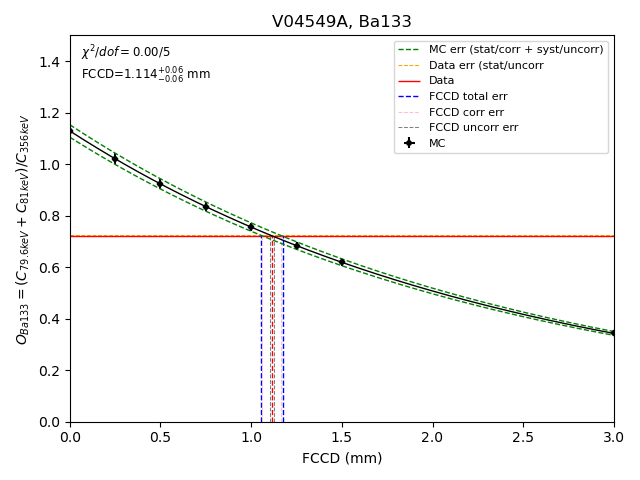
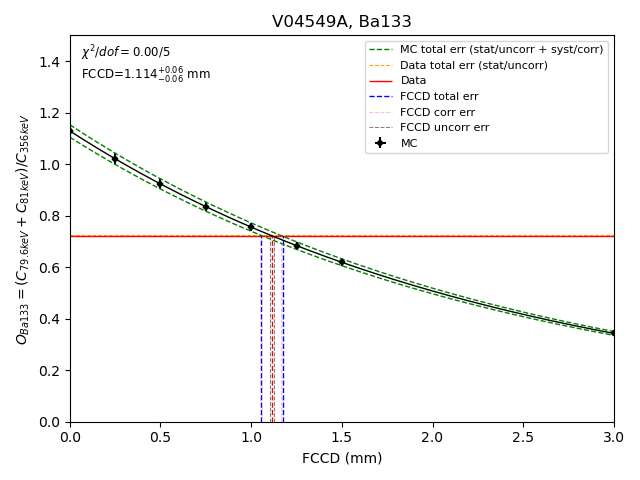
slightly modified FCCD plot

Changed region(s): [[0.5625, 0.0938, 0.9375, 0.3125]]

diff --git a/src/FCCD.py b/src/FCCD.py
@@ -76,7 +76,7 @@ def scipy_LS_fit(x,y,fit_func,guess,bounds=None, yerr=None):
     return coeff, coeff_err
 
     
-def calculateFCCD(detector, source, MC_id, smear, TL_model, frac_FCCDbore, energy_filter, cuts, run):
+def calculateFCCD(detector, source, MC_id, smear, TL_model, frac_FCCDbore, energy_filter, cuts, run, plot_all_error_bands = False):
     """
     Calculate FCCD of data
     args: 
@@ -89,6 +89,7 @@ def calculateFCCD(detector, source, MC_id, smear, TL_model, frac_FCCDbore, energ
         - energy_filter (cuspE_ctc)
         - cuts (True/False)
         - run (1,2,etc)
+        - plot_all_error_bands = True if you want a plot highlighting all the decomposed errors and how they propagate
     """
 
     #initialise directories for detectors to save 
@@ -195,7 +196,7 @@ def calculateFCCD(detector, source, MC_id, smear, TL_model, frac_FCCDbore, energ
     p_guess_up = [max(y_uplim), 1, min(y_uplim)]
     coeff_up, coeff_up_err = scipy_LS_fit(xdata,y_uplim,exponential_decay,p_guess_up)
     yfit_up = exponential_decay(xfit,*coeff_up)
-    plt.plot(xfit, yfit_up, color=plot_colors["MC_err_total"], linestyle='dashed', linewidth=linewidth_main, label="MC err (stat/corr + syst/uncorr)")
+    plt.plot(xfit, yfit_up, color=plot_colors["MC_err_total"], linestyle='dashed', linewidth=linewidth_main, label="MC total err (stat/uncorr + syst/corr)")
     y_lowlim = ydata-yerr
     p_guess_low = [max(y_lowlim), 1, min(y_lowlim)]
     coeff_low, coeff_low_err = scipy_LS_fit(xdata,y_lowlim,exponential_decay,p_guess_low)
@@ -210,11 +211,14 @@ def calculateFCCD(detector, source, MC_id, smear, TL_model, frac_FCCDbore, energ
     y_uplim_corr = ydata+yerr_corr
     coeff_up_corr, coeff_up_corr_err = scipy_LS_fit(xdata,y_uplim_corr,exponential_decay,p_guess_up)
     yfit_up_corr = exponential_decay(xfit,*coeff_up_corr)
-    # plt.plot(xfit, yfit_up_corr, color=plot_colors["MC_err_corr"], linestyle='dashed', linewidth=1, label="MC stat")
+    if plot_all_error_bands == True:
+        plt.plot(xfit, yfit_up_corr, color=plot_colors["FCCD_err_MCsyst"], linestyle='dashed', linewidth=1, label="MC stat/uncorr err")
+    
     y_lowlim_corr = ydata-yerr_corr
     coeff_low_corr, coeff_low_corr_err = scipy_LS_fit(xdata,y_lowlim_corr,exponential_decay,p_guess_low)
     yfit_low_corr = exponential_decay(xfit,*coeff_low_corr)
-    # plt.plot(xfit, yfit_low_corr, color=plot_colors["MC_err_corr"],linestyle='dashed', linewidth=1)
+    if plot_all_error_bands == True:
+        plt.plot(xfit, yfit_low_corr, color=plot_colors["FCCD_err_MCsyst"],linestyle='dashed', linewidth=1)
     a_up_corr, b_up_corr, c_up_corr = coeff_up_corr[0], coeff_up_corr[1], coeff_up_corr[2]
     a_low_corr, b_low_corr, c_low_corr = coeff_low_corr[0], coeff_low_corr[1], coeff_low_corr[2] 
 
@@ -224,11 +228,13 @@ def calculateFCCD(detector, source, MC_id, smear, TL_model, frac_FCCDbore, energ
     y_uplim_uncorr = ydata+yerr_uncorr
     coeff_up_uncorr, coeff_up_uncorr_err = scipy_LS_fit(xdata,y_uplim_uncorr,exponential_decay,p_guess_up)
     yfit_up_uncorr = exponential_decay(xfit,*coeff_up_uncorr)
-    # plt.plot(xfit, yfit_up_uncorr, color=plot_colors["MC_err_uncorr"], linestyle='dashed', linewidth=1, label="MC uncorr")
+    if plot_all_error_bands == True:
+        plt.plot(xfit, yfit_up_uncorr, color=plot_colors["FCCD_err_statMCstatdata"], linestyle='dashed', linewidth=1, label="MC syst/uncorr err")
     y_lowlim_uncorr = ydata-yerr_uncorr
     coeff_low_uncorr, coeff_low_uncorr_err = scipy_LS_fit(xdata,y_lowlim_uncorr,exponential_decay,p_guess_low)
     yfit_low_uncorr = exponential_decay(xfit,*coeff_low_uncorr)
-    # plt.plot(xfit, yfit_low_uncorr, color=plot_colors["MC_err_uncorr"],linestyle='dashed', linewidth=1)
+    if plot_all_error_bands == True:
+        plt.plot(xfit, yfit_low_uncorr, color=plot_colors["FCCD_err_statMCstatdata"],linestyle='dashed', linewidth=1)
     a_up_uncorr, b_up_uncorr, c_up_uncorr = coeff_up_uncorr[0], coeff_up_uncorr[1], coeff_up_uncorr[2]
     a_low_uncorr, b_low_uncorr, c_low_uncorr = coeff_low_uncorr[0], coeff_low_uncorr[1], coeff_low_uncorr[2] 
 
@@ -268,15 +274,12 @@ def calculateFCCD(detector, source, MC_id, smear, TL_model, frac_FCCDbore, energ
 
     #=============Complete Plot===================
 
-    #TO DO
-    # props = dict(boxstyle='round', alpha=0.5)
     info_str = '\n'.join((r'$\chi^2/dof=%.2f/%.0f$'%(chi_sq, dof), r'FCCD=$%.3f^{+%.2f}_{-%.2f}$ mm' % (FCCD_data, FCCD_err_total_up, FCCD_err_total_low)))
     plt.text(0.02, 0.98, info_str, transform=ax.transAxes, fontsize=8.5,verticalalignment='top')
 
 
-
     #plot horizontal data line and errors
-    plt.hlines(countRatio_data+countRatio_data_err, 0, FCCD_list[-1], color=plot_colors["data_err_stat"], label = 'Data err (stat/uncorr', linewidth=linewidth_err, linestyle = 'dashed')
+    plt.hlines(countRatio_data+countRatio_data_err, 0, FCCD_list[-1], color=plot_colors["data_err_stat"], label = 'Data total err (stat/uncorr)', linewidth=linewidth_err, linestyle = 'dashed')
     plt.hlines(countRatio_data-countRatio_data_err, 0, FCCD_list[-1], color=plot_colors["data_err_stat"], linewidth=linewidth_err, linestyle = 'dashed')
     plt.hlines(countRatio_data, 0, FCCD_list[-1], color=plot_colors["data"], label = 'Data', linewidth=linewidth_main)
     
@@ -293,7 +296,7 @@ def calculateFCCD(detector, source, MC_id, smear, TL_model, frac_FCCDbore, energ
 
     # #plot stat MC + stat data/ total uncorr:
     plt.vlines(FCCD_data+FCCD_err_uncorr_up, 0, countRatio_data-countRatio_data_err, color=plot_colors["FCCD_err_statMCstatdata"], linestyles='dashed', linewidths=linewidth_err, label = "FCCD uncorr err")
-    plt.vlines(FCCD_data-FCCD_err_uncorr_low, 0, countRatio_data-countRatio_data_err, color=plot_colors["FCCD_err_statMCstatdata"], linestyles='dashed', linewidths=linewidth_err)
+    plt.vlines(FCCD_data-FCCD_err_uncorr_low, 0, countRatio_data+countRatio_data_err, color=plot_colors["FCCD_err_statMCstatdata"], linestyles='dashed', linewidths=linewidth_err)
 
     if source == "Ba133":
         plt.ylabel(r'$O_{Ba133} = (C_{79.6keV}+C_{81keV})/C_{356keV}$')
@@ -309,7 +312,7 @@ def calculateFCCD(detector, source, MC_id, smear, TL_model, frac_FCCDbore, energ
     else:
         plt.savefig(outputFolder+"FCCD_"+MC_id+"_"+smear+"_"+TL_model+"_fracFCCDbore"+str(frac_FCCDbore)+"_"+energy_filter+"_run"+str(run)+"_cuts.png")
 
-    # plt.show()
+    plt.show()
 
     # Save interpolated fccd for data to a json file
 

diff --git a/processDetectors.py b/processDetectors.py
@@ -28,14 +28,14 @@ def main():
     Calibrate_Data = False  #Pre-reqs: needs dsp pygama data
     Gamma_line_count_data = False #Pre-reqs: needs calibration
     Gamma_line_count_MC = False #Pre-reqs: needs AV post processed MC for range of FCCDs
-    Calculate_FCCD = False #Pre-reqs: needs gammaline counts for data and MC
+    Calculate_FCCD = True #Pre-reqs: needs gammaline counts for data and MC
     Gamma_line_count_MC_bestfitFCCD = False #Pre-reqs: needs AV postprocessed MC for best fit FCCD
     PlotSpectra = False #Pre-reqs: needs all above stages
 
     #Optional Scripts
     PlotSpectra_nosmear = False
     PlotMCHits = False
-    PlotComparisonMCGammaLine = True
+    PlotComparisonMCGammaLine = False
     #====================================================
 
     if source == "Ba133":
@@ -126,7 +126,8 @@ def main():
                 smear="g"
                 TL_model="notl"
                 frac_FCCDbore=0.5
-                calculateFCCD(detector, source, MC_id, smear, TL_model, frac_FCCDbore, energy_filter, cuts, run)
+                plot_all_error_bands = False #only set to true for testing
+                calculateFCCD(detector, source, MC_id, smear, TL_model, frac_FCCDbore, energy_filter, cuts, run, plot_all_error_bands=plot_all_error_bands)
 
             #========Gamma line count -best fit MC==========
             if Gamma_line_count_MC_bestfitFCCD == True:
